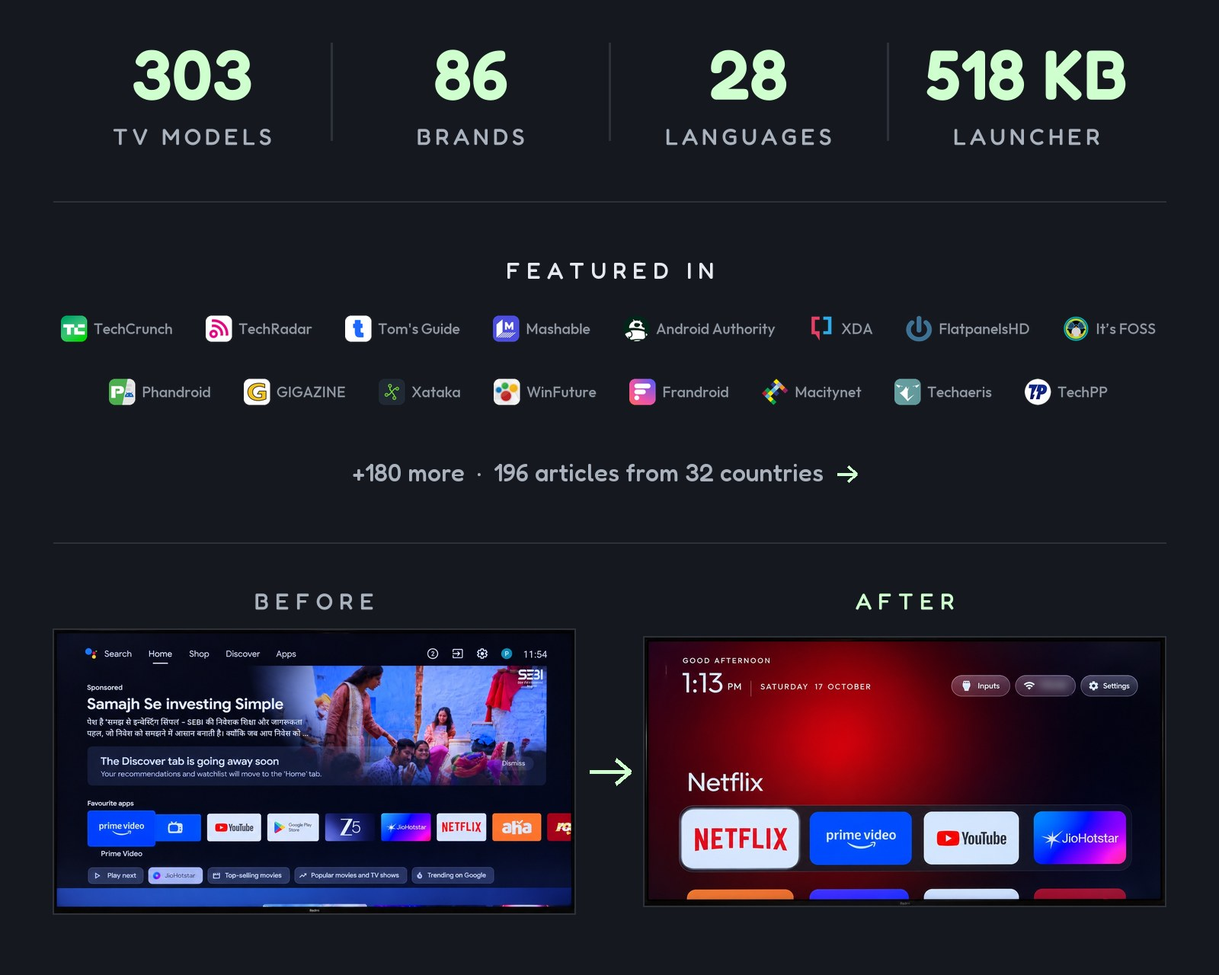
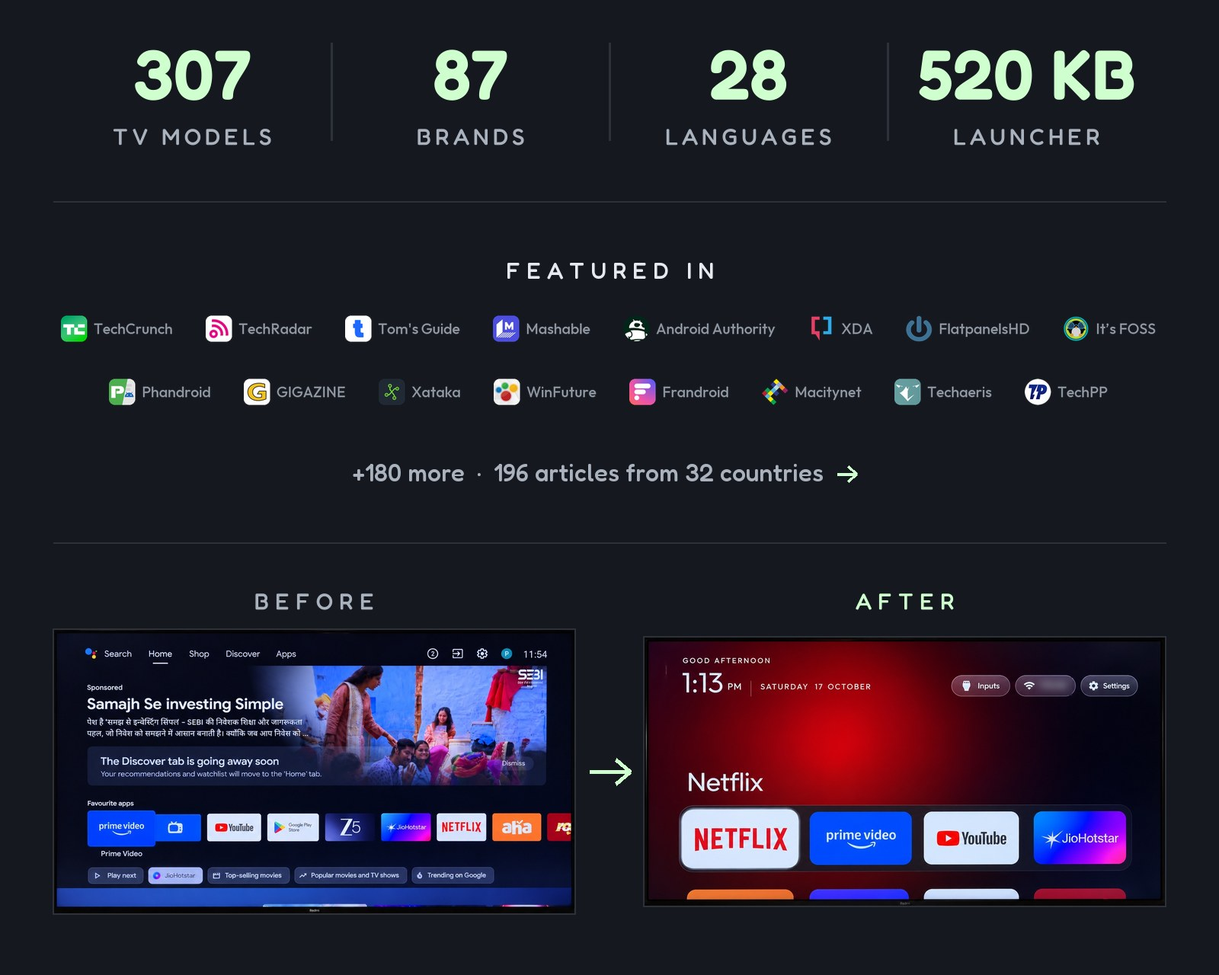
README: tables, counts and card after Round AB (307 TV models, 87 brands, 28 languages, about 520 KB)

Changed region(s): [[0.75, 0.0312, 0.9375, 0.125], [0.125, 0.0625, 0.2188, 0.125], [0.375, 0.0312, 0.4375, 0.0938]]

diff --git a/tests/test_translation_recipe_gate.py b/tests/test_translation_recipe_gate.py
@@ -5,7 +5,7 @@ in `values/strings.xml`, so a full language is by far the largest thing a transl
 adds to `launcher/app/src/main/res/` - and the release APK has a hard budget:
 `.github/workflows/ci.yml`'s `launcher` job, which runs on every pull request in `launcher/`, measures
 `launcher/app/build/outputs/apk/release/app-release.apk` and fails the build at 589,824 B. The launcher
-ships just under that (README.md quotes about 518 KB), and #1271 is a full Korean translation that did
+ships just under that (README.md quotes about 520 KB), and #1271 is a full Korean translation that did
 not fit. Until now the page said nothing about it, so a translator could follow the recipe exactly and
 land a red build at a step the page never mentions.
 

diff --git a/tools/readme_stats.py b/tools/readme_stats.py
@@ -37,7 +37,7 @@ try:
 except ImportError:
     sys.exit("readme_stats.py needs Pillow: tools/venv/bin/pip install -r tools/requirements-perf.txt")
 
-STATS = [("303", "TV MODELS"), ("86", "BRANDS"), ("28", "LANGUAGES"), ("518 KB", "LAUNCHER")]
+STATS = [("307", "TV MODELS"), ("87", "BRANDS"), ("28", "LANGUAGES"), ("520 KB", "LAUNCHER")]
 W, H = 1600, 240
 img = Image.new("RGB", (W, H), "#15181e"); d = ImageDraw.Draw(img)
 def f(size, wt):

diff --git a/examples/README.md b/examples/README.md
@@ -85,8 +85,8 @@ on that firmware, grouped and commented. These are starting points: comment out 
 | `lumio-vision-7/` | Lumio Vision 7 55" (KTC ODM, Realtek, khardi, KTC_LUMIO_4K_EU_23GV1), India | Google TV 14 | First Lumio list: Anoki ACR + Privacy Sandbox ad services, Realtek store-demo/karaoke, Ginga, Google feedback/partner-setup/calendar-sync/ambient screensaver, Play Games, YouTube Music; voice assistant (katniss) off by choice (~100 MB); setupwraith must go with launcherx (active Wi-Fi was system-owned, so Wi-Fi survived; FORCE_SETUPWRAITH=1) and doing so can break Cast; Live TV is com.realtek.tv; remote app buttons YouTube 190 / Netflix 191 / Prime 195 / TL;DR 200; Netflix shipped disabled; reboot-checked |
 | `magcubic-hy300-pro/` | Magcubic HY300 Pro projector (rk3566_rgo, device adt3, Askey) | Android 11 | Calculator, music, file manager, video player, Office, Miracast, HTC store and printing off; same Allwinner/HTC firmware family as the Portronics Beem 470; `com.htc.htcsettings` (projector settings), firmware updaters and factory packages kept; stock HTC launcher left enabled, `set-home-activity` takes Home; HDMI1-3 and CVBS1 list in the Inputs menu; config.json puts SmartTube, YouTube, Nuvio, VLC in the dock |
 | `master-g-mga3200/` | Master-G MGA3200 (SCBC R1, Realtek; Android reports model `ATV R1`), Chile | Android TV 9 | Same SCBC platform as `thomson-t32rtl6000/` and `sanyo-atv-r2/`: Google recommendation rows, telemetry and feedback, SCBC consent agent, S-Channels row, partner auto-installs, E-Show demo, E-Sticker, Vewd store; OTA kept, factory menus left alone; ISDB-T tuner stack, remote/Bluetooth and FastCast must stay; 1.5 GB RAM; 20 packages |
+| `motorola-swtv-24ae-fhd/` | Motorola / Coocaa SWTV-24AE-FHD (24LP6000G, Skyworth OEM, beomil), India/SEA | Google TV 14 | Skyworth OEM board sold as Motorola in India (build UKN4) and Coocaa 24LP6000G in Vietnam/SEA (build UKN6); after-sale/activation trackers, ad services, recommendation rows, demos; Wi-Fi ownership setupwraith gotcha documented; remote Settings button emits keycode 83 (KEYCODE_NOTIFICATION) on scancode 240, needs HomeKeyService; Live TV is `com.cltv.hybrid` (Motorola) or `com.mediatek.wwtv.tvcenter` (Coocaa); reboot-checked |
 | `motorola-mt4310/` | Motorola MT4310 (Newsan; Hisense board, hayward, MediaTek), Argentina | Android TV 11 | Hisense silent auto-installs, store demo and disclaimer, feedback and partner setup, recommendation rows and MediaTek partnercustomizer, printing and calendar; Play Movies, Play Games and TalkBack/TTS off by choice; the factory manager re-enables katniss and tvrecommendations at every boot, so they stay on; 0.9 GB, 720p UI; tvlauncher off for a custom launcher, setupwraith left on (no HOME claim); remote app and Input keys survive the swap; Live TV is `com.mediatek.wwtv.tvcenter` |
-| `motorola-swtv-24ae-fhd/` | Motorola SWTV-24AE-FHD (Skyworth OEM, beomil, MediaTek), India/Global | Google TV 14 | Skyworth after-sale/activation trackers, recommendation rows and partner customizer, TV Guard (dailymanage), Daily Key (myapp), e-manual; Google Play Games and feedback; launcherx + setupwraith off; setupwraith owned Wi-Fi saved at setup; remote Settings button emits keycode 83 (KEYCODE_NOTIFICATION) on scancode 240, needs HomeKeyService; Live TV is `com.cltv.hybrid` |
 | `mtc-uk-2k-android-tv/` | MTC UK 2K Android TV (tabata, MediaTek m5621; JVC-family firmware, `android.autoinstalls.config.JVC` present), UK | Android TV 11 | Google recommendation rows, partner customizer, feedback, ambient mode (katniss + backdrop), retail demo, MStar disclaimer popups, calendar leftovers; UK Freeview suite ships disabled at the factory (re-disabling throws SecurityException, harmless); dumpsys crippled on this firmware ("hung system process"), verify with `pm list packages -d` and screenshots; stock launcher `com.google.android.tvlauncher`, so `restore.sh` needs no launcher argument |
 | `next-start-pro-4k/` | Next Start Pro 4K TV Box (SDT HPR314-Next, Realtek RTD1325), Turkey, streaming box | Google TV 14 | Google feedback, on-device ad personalisation, Google TV home and ambient screensaver, setup wizard (took Home and crash-looped; owned the setup Wi-Fi), factory tests, Next IPTV, Roket and JetTV; Dolby service, Realtek and SDT services kept; **Dolby stutter fix**: Surround on Never plus Realtek's hidden MS12 output set to DD+/Atmos ([README](next-start-pro-4k/README.md)); Projectivy as Home; 2 GB; reboot-checked |
 | `noblex-shinjuku/` | Noblex NoblexTV (Skyworth-built, shinjuku, MediaTek m5621), Argentina | Android TV 11 | Panasonic TH-40HS550K list on the same Skyworth firmware family: Skyworth auto-installs, shop demo and Demo Now, e-manual, MediaTek PQ test tool, Google feedback and smartconnect, recommendation rows and Skyworth's launcher customizer, Assistant, Backdrop; unused apps off by choice; Chromecast kept; 0.9 GB, streaming apps that start on their own at boot are the real RAM cost (appops note); keep `com.mediatek.*` |
@@ -109,6 +109,7 @@ on that firmware, grouped and commented. These are starting points: comment out 
 | `panavox-google-tv/` | PANAVOX Google TV (dongnae) | Google TV 14 | Google TV home replaced (launcherx and setupwraith off), Google telemetry and Privacy Sandbox services, Prime Video, Wi-Fi display sink, calendar and contacts sync, voice (katniss, tv.remote.service), Chromecast, TTS, TalkBack and Google extras off |
 | `peaq-ptv43aqu-5023c/` | PEAQ PTV 43AQU-5023C (Changhong, reports OK. AI PONT, dundas, MediaTek m7332) | Android TV 11 | First PEAQ list, same platform as ok-ai-pont-ikebukuro: Anoki ACR, AI PONT portal, Google recommendations, partner auto-installs, Homwee store/help, Google preloads; Assistant, Ambient, Prime Video and Media Player off by choice; Chromecast and Miracast kept; 1080p, 1.3 GB; setupwraith owns the Wi-Fi network and does not claim HOME, left alone; remote buttons work without tvlauncher; config.json has the dock; reboot-checked |
 | `philips-50pud7406/` | Philips 50PUD7406/43 (TPV, PH0M_EA_T32, MStar/MediaTek), Chile; 55PUS7906/12, Lithuania | Android TV 11 | First list for PH0M_EA_T32 (same board as the 65PUG7406/78 notes), not the org.droidtv xtv platform: DAC/GEL analytics, TPV framework logger and CMS client, app gallery, retail demo, partner customizer, recommendations, ambient mode; Chromecast off because a shared network of ~150 hosts kept pausing and closing YouTube (HOME sent by mediashell); point the screensaver away from the disabled backdrop; Assistant and updates kept; a second unit (EU) adds a boot-to-Live-TV quirk and the MMP player as a TV_INPUT_HARDWARE false positive; a third unit (55PUS7906/12, EU, TPM215E) shows HDMI (PS4) and DVB-T work with the list applied and MMP, eum and nettvregistration kept, and adds six candidate lines |
+| `philips-50puf7099-t3/` | Philips 50PUF7099/T3 (TPV EBONY_V560, Hisilicon), China | Android TV 9 | China-market set, not the org.droidtv platform the other Philips lists cover: BestV/百视通 stock home (`com.bestv.ott`, not in `KNOWN_STOCK_LAUNCHERS`, so pass `STOCK_LAUNCHER=com.bestv.ott`), three package families side by side (`tv.fun.*`, `com.newtv.*`, `com.tpv.*`), no GMS; the casting, camera, video-call and smart-home apps off with the TPV telemetry and ad services and the BestV/NewTV background services, plus the store; the two firmware upgraders are commented out (the tested set had them off, which gives up system OTA, and `tv.fun.tvupgrade` can re-install the BestV home); the preinstalled content apps and the voice assistant kept by choice; the screensaver shipped pointing at a package that is not installed, so there was no DreamService at all; reboot-checked, but one session only and the physical remote untested ([device note](../docs/devices/philips-50puf7099-t3.md)) |
 | `philips-50pus8517/` | Philips 50PUS8517/12 (TP Vision, PH1M_EA_9970A, MediaTek MT5895), Europe | Android TV 11 | First `org.droidtv` TP Vision list: DAC analytics uploader (AWS Firehose), Top Picks, app gallery; Assistant, DLNA, IP control off by choice; disabling `eum` or `aurora` leaves persistent `xtv` retrying forever, and `eum` also kills the sources drawer -- see quirk 5; the same list was also run on a 70PUS8505 and a 65PUS9206 (same board and firmware) |
 | `philips-55oled707/` | Philips 55OLED707/12 (TP Vision, PH1M_EA_9970A, MediaTek MT5895), UK | Android TV 11 | Same board and firmware build as `philips-50pus8517/`, on an OLED panel: DAC analytics, Top Picks, app gallery and its preload installer, Alexa, setupwraith (Ethernet only, Wi-Fi impact unchecked); `nettvbrowser` must stay or ITVX hangs; Play-Fi re-enables itself at every boot, so it is left out; Chromecast and all used streaming apps kept |
 | `philips-55oled708/` | Philips 55OLED708/12 (TPV, PH1M_WW_9972, MediaTek), Poland | Google TV 12 | Google TV generation, not the 707's board: DAC analytics, frameworklogger, Samba TV ACR, NFT Collection, Play-Fi, Control4, Matter, Mimi, Alexa, Chromecast, setupwraith (Wi-Fi re-joined first) and the Philips launcher tab; `demome` holds TV_INPUT_HARDWARE so it stays; the remote's gear and Apps buttons need HomeKeyService (gear by scancode 141); nothing re-enabled after a reboot |
@@ -123,7 +124,7 @@ on that firmware, grouped and commented. These are starting points: comment out 
 | `philips-google-tv-ta7/` | Philips Google TV TA7 (TPV, PH3M_AL_T32, MediaTek), Brazil | Google TV 14 | TP Vision `candeebug`/`gel` analytics, partner attribution and auto-installs, European operator apps, ad-consent and disclaimer popups; Netflix, Prime Video, Google TV app and Chromecast off by choice, Assistant and OTA kept; setupwraith + launcherx off for a custom launcher (setupwraith owned only an unused network); the gear button is KEYCODE_SETTINGS and needs HomeKeyService (`HOME_KEY_SERVICE=1`); theme |
 | `philips-r8g-google-tv/` | Philips R8G Google TV (MOKA, whitefield, Realtek RTD2851F), US | Google TV 14 | Anoki ACR, store-demo overlay, Realtek partner customizer, HbbTV (unused with ATSC), Android ad services; voice and ambient mode off by choice; port 5555 opens without pairing; setupwraith owned the Wi-Fi saved at setup and disabling it deleted the network; the standby light can be switched off over ADB ([note](../docs/devices/philips-r8g.md)) |
 | `philips-smart-4k-google-tv/` | Philips Smart 4K TV (Skyworth, eleonas, MediaTek), India | Google TV 14 | Skyworth recommendations, after-sale/activation trackers, iCast; Chromecast, Assistant off by choice; wireless-debugging pairing, setupwraith |
-| `philips-tpm191e/` | Philips TPM191E / 50PUS8505 / 55OLED854 (TP Vision, PH9M_EA_5599, MediaTek MT5887), Europe | Android TV 12 | `org.droidtv` TP Vision list on Android 12: DAC analytics uploader, usage logging, demo mode, Top Picks, app gallery; voice, Prime Video, DLNA off by choice; Alexa, Chromecast and updates kept; DTS Play-Fi is re-enabled at every boot by the audio service, so it is left on; `eum`, `nettvbrowser`, `menudataapp` and `nettvregistration` kept, as on the 50PUS8517; for the 50PUS8505 and the 55OLED854, only an owner-selected subset and launcher handover were checked in one session, not the full list; the 55OLED854 found its remote's Settings button (scancode 357) and the OLED screensaver logo also seen on a different board ([notes](philips-tpm191e/README.md)) |
+| `philips-tpm191e/` | Philips TPM191E / 50PUS8505 / 55OLED854 / 65OLED804 (TP Vision, PH9M_EA_5599, MediaTek MT5887), Europe | Android TV 12 | `org.droidtv` TP Vision list on Android 12: DAC analytics uploader, usage logging, demo mode, Top Picks, app gallery; voice, Prime Video, DLNA off by choice; Alexa, Chromecast and updates kept; DTS Play-Fi is re-enabled at every boot by the audio service, so it is left on; `eum`, `nettvbrowser`, `menudataapp` and `nettvregistration` kept, as on the 50PUS8517; for the 50PUS8505 and the 55OLED854, only an owner-selected subset and launcher handover were checked in one session, not the full list; the 55OLED854 found its remote's Settings button (scancode 357) and the OLED screensaver logo also seen on a different board; on the 65OLED804 tvrecommendations stayed off through restarts, and a held Home press needs `home_long_press_home` ([notes](philips-tpm191e/README.md)) |
 | `polytron-2k-hayward/` | Polytron 2K (WLTV POLYTRON2K, hayward; Hisense/CVTE board, MediaTek mt5867), Indonesia | Android TV 11 | Hisense silent auto-installs, MediaTek partnercustomizer, Google recommendations, feedback and partner setup, store demo and disclaimer; voice search, Chromecast, YouTube, Netflix and TTS off by choice; 1 GB, 720p UI, decoders up to 1080p; tvlauncher + setupwraith off for a custom launcher; Live TV is com.mediatek.wwtv.tvcenter |
 | `portronics-beem-470/` | Portronics Beem 470 Smart LED Projector (Allwinner H713, 1 GB), India | Android 11 | First Portronics list: HTC stock launcher/OTA/telemetry and app store, Allwinner Live TV/media/theme apps, stock YouTube replaced by SmartTube, AOSP phone/print/cell leftovers; casting/EShare kept; HOME key needs both setup flags, and Settings needs an explicit component because the firmware answers no ACTION_SETTINGS |
 | `prismplus-q65-ultra-r10g/` | PRISM+ Q65 Ultra 2026 QLED 4K AI Google TV (R10G, PRISMPLUS_FFM, MOKA, Realtek RTD2875 SoC, RTD6748 platform) | Google TV 14 | Realtek partner customizer, Google partner setup and auto-installs, ambient mode, unused DTMB/ISDB/ATSC tuners, karaoke, preloaded apps; Max off by choice; keep com.realtek.dtv and com.realtek.tv.atv for inputs |
@@ -137,6 +138,7 @@ on that firmware, grouped and commented. These are starting points: comment out 
 | `sankey-smart-tv-hi3751v350/` | Sankey SMART_TV (CVTE, HiSilicon Hi3751V350, 1 GB) | Android 12 | CVTE ad and push services (`gaia.ad`, `wonder.cloud`, `industries`), the ad screensaver, the "cleaner", the stock weather and Google feedback; Miracast off by choice; the CVTE store kept by default (it hosts the stock launcher's Apps grid; the tested set turned it off because it kept pushing a CVTE-signed "WebTube" as a YouTube update); no Developer options and no App info page, ADB from the CVTE factory menu (MENU 1147); stock launcher kept (no FallbackHome, `COMMON_HOME`, #1201); Inputs pill opens `com.cvte.tv.globalui/.InputSourceActivity` |
 | `sanyo-atv-r2/` | SANYO ATV R2 (SCBC, Realtek RTD285O) | Android TV 9 | S-Channels, E-SHOW demo, Vewd, TV Booster, SANYO OTA |
 | `sber-salute-tv-at30a6/` | Sber Salute TV 43" (CVTE TP.T962D4.PC756, Amlogic T962D4, at30a6, 2 GB), Russia | StarOS 1.101 / Android 13 | First StarOS list: Sber content apps, SberPrime, kids room, smart home, Salute browser and screensaver, app catalogue, surveys, beta, bug reporter, cleaner, Huawei Cast/MHshare/DLNA receivers; OTA kept by default; Sber's platform service reinstalls removed apps (disable only) and cannot itself be disabled (its core re-enables it, component disables are refused), so the Salute voice assistant stays; Developer options locked and Sber Studio's ADB switch did not open 5555, see README; app "rotation" limit lowered with `sys_storage_threshold_percentage`; Inputs work through `ru.sberdevices.tvinputs`; reboot-checked |
+| `seleco-tv39020hda9smart/` | Seleco TV39020HDA9SMART 39" (AT_SmartScreen, Toptech + Zeasn, Realtek RTK2842P), Italy | Android TV 9 | Same Toptech/Zeasn platform as [caxium-58-realtek-rtk2851p](caxium-58-realtek-rtk2851p/): Zeasn device portal, services feed and store, partner auto-installs, retail demo, print spooler, camera, live wallpapers, Chrome, USB media player; phone Netflix, voice search and Miracast off by choice; shipped with the phone build of Prime Video instead of the TV app, replaced by hand; stock Zeasn Home disabled last; Live TV and inputs stay with `com.toptech.tvmenu`, whose `.input.InputActivity` the Inputs pill opens; the remote's Input key still goes to the Zeasn Home; config.json has the dock; reboot-checked |
 | `sharp-2t-c32gh3000i/` | SHARP 2T-C32GH3000I (SHARP 2K Smart TV-A; Skyworth-built, beomil, MediaTek mt5867), Indonesia | Google TV 14 | Same platform as the Motorola SWTV-24AE-FHD: Skyworth after-sale/activation trackers, recommendation rows and partner customizer, TV Guard, Daily Key, e-manual, iCast; Android ad services; dreamx, Chromecast, Prime Video, YouTube Music off by choice; wireless-debugging pairing only; setupwraith owned the Wi-Fi saved at setup; remote gear sends keycode 83; Live TV is `com.cltv.hybrid`; 1 GB |
 | `sharp-aquos-tve21f/` | SHARP AQUOS TVE21F (AQUOS-TVE21F, banqiao, CVTE/MediaTek), UK | Android TV 14 | Anoki ACR, retail demo, factory/test apps, PAI auto-installs; Google recommendations and setup wizard (Wi-Fi owned by system); Assistant, Chromecast and phone remote off by choice; unused streaming off by choice; 1.8 GB; YouTube button stays with the vendor `com.cvte.hotkey.dispatcher` |
 | `sharp-aquos-tve23a/` | SHARP AQUOS TVE23A (AQUOS-TVE23A, sandiego, CVTE/MediaTek mt5889), Denmark | Google TV 14 | Google TV sibling of the TVE21F: Anoki ACR, retail demo, e-manual, factory/test apps, partner rows; Android ad services; Prime Video, YouTube, YouTube Music, Play Games, Chromecast and Google TTS off by choice; setupwraith owned the Wi-Fi saved at setup; remote gear is KEYCODE_STAR (17), YouTube is KEYCODE_TV_INPUT_COMPOSITE_1, Netflix stays with the firmware; 2.7 GB |
@@ -191,6 +193,7 @@ on that firmware, grouped and commented. These are starting points: comment out 
 | `stellamore-t950s/` | Stellamore T950S projector (Droidlogic be30a3, Amlogic txhd2) | Android 13 | Zeasn App Store and stock launcher both bundle Google Ads (doubleclick); Zeasn device portal/OTA, Stellamore factory/test/guide; 1 GB; keystone correction must stay enabled |
 | `super-general-cvte-t972/` | Super General 55" 4K (CVTE TP.SK708D.PC821, Amlogic T972, x30a4, 1 GB), Saudi Arabia | Android 9 | Not Google TV; `com.sdk.hades` adware in two silently installed packages, CVTE ad services and ad screensaver, Stark store, cleaner, weather, firmware updater; Play Services ships disabled (`pm enable` it); ADB from the factory menu (MENU 1147 on a source); app buttons come from CVTE's hotkey service, Source is left to the app in front (open `com.cvte.tv.globalui/.InputSourceActivity`), a key-filtering accessibility service breaks Volume hold; NFX repointed with a same-package stand-in; third-party launcher; reboot-checked; [notes](super-general-cvte-t972/README.md) |
 | `tcl-mt9655-cn-android14/` | TCL / FFalcon China (tcl9655_cn, MediaTek MT9655 "merak", UTT2.250416.001 AU01) | Android 14 | No Google services; no Developer options at all — the ADB toggle opens adbd in TLS mode on a random port with no pairing service, so the only way in is a dual male USB-A cable (PC USB 3.0 → TV USB 2.0) and then `adb tcpip 5555`; every adb install is refused (`Install not allowed` from system_server), only a USB stick through 电视卫士 installs apps; debloat only, stock launcher cannot be replaced (`launcherStrategy` allowlist empty, verifier demands the cyberui signature); reboot-checked; [why the debloat works and the installs do not](../docs/devices/tcl-mt9655-cn-android14.md) |
+| `tcl-32es570f/` | TCL 32ES570F (C06, C06_2K_GB, MStar mt5867, 939 MB), Italy | Android TV 11 | Older V8-T221T01-LF1V121 firmware than `tcl-32s5k/`; TCL Home, Quick Panel and T-Solo disabled with the remote still working; ttvs re-enables Rakuten, Alexa and usercenter at every boot; TGuard disables but keeps running; no standby-LED setting |
 | `tcl-32l5a/` | TCL 32L5A (C06, model "Smart TV", 1 GB) | Android TV 11 | Same C06 platform as `tcl-32s5400a/` (SDK 30, build AR2101); TCL account, TGuard cleaner, promo rows, TCL Channel waterfall, store demo sticker, browser, feedback and Google TV recommendations; custom Apple TV style launcher installed as default home (`com.gathin.tvhome`), stock launcher `com.google.android.tvlauncher` disabled; Live TV `com.tcl.tv` and inputs `com.tcl.tvinput` kept; reboot-checked |
 | `tcl-32s5400a/` | TCL 32S5400A (C06, C06_2K_GB, MediaTek MT9221, 1 GB), 2023 | Android TV 11 | Same C06 platform as `tcl-40s5400a/`, but older AR2101 / V8-T221T05-LF1V005 firmware and SonyLIV/YuppTV preloads; TCL account/TGuard/promos, Google extras, regional preloads; firmware updater kept (ttvs is the updater); stock launcher priority 2, keep the remote/BT/TCL settings packages; a second unit on V8-T221T01-LF1V121 needs 500 MB free before any install (`pm trim-caches`) |
 | `tcl-32s5k/` | TCL 32S5K (C06, C06_2K_GB, MediaTek MT9221, 918 MB), EU | Android TV 11 | Same build family as the 40S5400A; TCL account/TGuard/promo rows, USB players, voice and photo screensaver off by choice; `com.tcl.usercenter` is re-enabled by ttvs at every boot; setupwraith safe here (Settings owns the Wi-Fi); remote standby is a full power-down |
@@ -220,6 +223,7 @@ on that firmware, grouped and commented. These are starting points: comment out 
 | `tcl-55p7k/` | TCL 55P7K, Middle East (G10, G10_4K_GB, Realtek RTD2875P) | Google TV 12 | Same G10 build as `tcl-g10-google-tv/` but logkit, Samba TV ACR and ttvs ship enabled; TCL Channel, push messages, TGuard, T-Solo, Alexa, hotel/demo; OSN+, Disney+ MEA, iQIYI off by choice; setupwraith before launcherx; Settings key is KEYCODE_NOTIFICATION, Web key 4159; TCL Audio Only turns the panel off with sound playing |
 | `tcl-55p8ls/` | TCL 55P8LS QD-Mini LED, Vietnam (G10, G10_4K_GB_32BIT, Realtek rtd6748) | Google TV 12 | Same G10 build as `tcl-g10-google-tv/`; Samba TV ACR, logkit, ttvs, TCL Channel/push/partner home rows, hotel/demo, TGuard, Alexa, T-Solo, MagiConnect, Miracast; Prime Video, YouTube Music, Play Movies/Games off by choice; saved Wi-Fi belonged to setupwraith (re-join first); Play Store auto-installs VTV Go, HBO Max, iQIYI at sign-in; launcher key services need APP_AUTO_START; reboot-checked |
 | `tcl-q10g-pro/` | TCL 55Q10G Pro (China, tcl_mt5879_cn, MediaTek MT9952) | Android TV 11 | No Google services, TCL boot ad + analytics/BI, OTA and account services; ADB opens from Device info + UP/DOWN/LEFT/RIGHT, not the build number; debloat only, stock launcher cannot be replaced (signature check at install time) |
+| `tcl-55q6cx1/` | TCL 55Q6CX1 (Smart TV Pro, G08, G08_4K_GB, MediaTek) | Google TV 12 | European G08 build (STT2.221228.001 AS35): TCL promos, push messages, onboarding overlays, telemetry/logkit, Google Play Movies, TTS, dreamx screensaver; launcherx and setupwraith safely disabled (Wi-Fi owned by system, not setupwraith) and replaced with CleanYourTV; Game Bar, T-Exhibit, AirPlay, Chromecast, Miracast and DVB tuner kept; suspension/interactive/ttvs kept (they host the Source QuickPanel and live TV overlays); key helpers left unbound to preserve volume ramp; duplicate WebViews commented (check the active provider first); reboot-checked |
 | `tcl-55s470g/` | TCL 55S470G (G10, G10_4K_US_NF, Realtek), US | Google TV 12 | Same build as the G10 list, but Samba TV, logkit and ttvs ship enabled; ttvs kept (it hosts the firmware updater) and re-enables Samba's front end at boot, so opt out in Settings > Privacy too; Assistant voice and Chromecast off by choice; setupwraith off (Wi-Fi belonged to android.uid.system); remote gear button (keycode 83) opens the quick settings panel and the app buttons are remapped (Pluto TV opens Tubi); `APP_AUTO_START` must be allowed for the launcher or TclAppBoot stops the key service at boot; reboot-checked |
 | `tcl-55s546-us/` | TCL 55S546 (5-Series, G03_4K_US, BeyondTV4, GTV93), US | Google TV 11 | Same G03 platform as tcl-g03-google-tv on the US GTV93 build: TCL telemetry, promos and preloads off; TCL+ and TCL Channel kept; launcherx off with remote app buttons and volume repeat still working, no key helper needed; reboot-checked |
 | `tcl-58s571f-fire-tv/` | TCL 58S571F (TCL Fire TV, AFTDEC012E, ginza, MediaTek mt5896), US | Fire OS 8 / Android 11 | The S5 sibling of `tcl-43s450f-ca/` (same AFTDEC012E platform as `amazon-fire-tv-aftdec012e/`): Amazon ACR, ad/recommendation feeders, advertising ID, Shopping, demo, tutorials, telemetry, KSO service; Alexa extras, preloads and TCL apps (OpApp, Luna, Kids, News, Gallery, System Status, Prime Video) off by choice; Alexa voice returns at every boot as on the Hisense; the stock launcher also owns Settings; Appstore kept for the remote's branded buttons; AirPlay, Miracast, Live TV, Silk kept; debloat only |
@@ -248,7 +252,7 @@ on that firmware, grouped and commented. These are starting points: comment out 
 | `tcl-q7c-google-tv/` | TCL Q7C (Smart TV Pro, G08, G08_4K_GB, MediaTek tcl9618), European firmware | Google TV 14 | Same build as the 85RM7L list (AU02), with the launcher: TCL promos, home pushes, Channel+/waterfall, account, TGuard cleaner, log capture, Android 14 ad and privacy services, manual/repair/hearing/solo apps, soundbar updater, Alexa; Assistant, AirPlay, Miracast/T-Cast, Netflix, Prime Video, Google TV and Play Games off by choice; ttvs, Chromecast, game bar and dreamx kept; launcherx and setupwraith off (Ethernet, FORCE_SETUPWRAITH=1); every remote button is scancode 240, keycodes in the README (Settings 83, YouTube 190); the debugging switch did not close port 5555, check adb_enabled; reboot-checked; a second unit, a 65Q7D Pro on Wi-Fi in Greece, is in its README (Wireless debugging only, setupwraith owned the Wi-Fi in use, the key helpers cost volume repeat); a fourth unit, a 65T8C on Wi-Fi, also in its README (Wireless debugging only, AirPlay and Prime Video kept, TCL keyboard off after Gboard); a fifth unit, an EU/UK set OTA'd from Android 12, in its README (OTA re-enabled nothing and installed channelplus; Source-key QuickPanel via suspension; keyboard and browser kept) |
 | `tcl-qm6k-google-tv/` | TCL QM6K Pro, 2025 (G08, MediaTek tcl9618) | Google TV 14 | Samba TV ACR (ttvs), TCL TV+, TCL Live, store/hotel demo; setupwraith must go for a custom launcher (also AU14, #23); a QM7 (2024) owner ran this list with seven extra packages — [deltas and a hung Cast receiver](../docs/devices/tcl-75qm751g-qm7.md) |
 | `tcl-g07-google-tv/` | TCL Smart TV (G07, G07_4K_GB_NF, Realtek RTD2851A, 2 GB) | Google TV 11 | TCL BI analytics (ttvs, also the firmware updater), TGuard, waterfall, TCL Live, TCL Home dashboard, messages, hotel/demo, partner auto-installs; voice, Miracast, MagiConnect, T-Solo, firmware updates and unused preloads off by choice, Chromecast kept; launcherx, setupwraith and dreamx off (Wi-Fi belonged to android.uid.system), reboot-checked; Input key works without InputKeyService, gear is scancode 561 (`settings_key_scancodes`), Netflix and YouTube buttons need an accessibility helper |
-| `tcl-g03-google-tv/` | TCL Smart TV Pro (G03, G03_4K_GB, BeyondTV4, Realtek R51MT05, V8-R51MT05-LF1V620), Middle East firmware | Google TV 11 | Same platform as tcl-43c645: TCL BI analytics and logkit, promo rows (TCL Channel, BrowseHere), dashboard, messages, partner auto-installs; streaming apps, voice, Chromecast, Miracast/T-Cast, USB player, game bar, TCL Live off by choice, firmware updates kept; launcherx, setupwraith and dreamx off (setupwraith owned the Wi-Fi: forget and re-join first), reboot-checked; Input key works without InputKeyService, gear is keycode 4077 (`settings_key_keycodes`), config.json sets Live TV to com.tcl.tv; a second unit on the same build ships a Bluetooth TCL_RC902V_M1 remote whose Netflix/YouTube/Prime buttons die with launcherx and come back from `app_keys` (in config.json, verified with the real remote) |
+| `tcl-g03-google-tv/` | TCL Smart TV Pro (G03, G03_4K_GB / G03_4K_US, BeyondTV4, Realtek R51MT05, V8-R51MT05-LF1V620 / LF1V813), Middle East and US firmware | Google TV 11 | Same platform as tcl-43c645: TCL BI analytics and logkit, promo rows (TCL Channel, BrowseHere), dashboard, messages, partner auto-installs; streaming apps, voice, Chromecast, Miracast/T-Cast, USB player, game bar, TCL Live off by choice, firmware updates kept; launcherx, setupwraith and dreamx off (setupwraith owned the Wi-Fi: forget and re-join first), reboot-checked; Input key works without InputKeyService, gear is keycode 4077 (`settings_key_keycodes`), config.json sets Live TV to com.tcl.tv; a second unit on the same build ships a Bluetooth TCL_RC902V_M1 remote whose Netflix/YouTube/Prime buttons die with launcherx and come back from `app_keys` (in config.json, verified with the real remote); a US unit (GTV93) shows dreamx also hosts the Google Home panel and TCL's updater needs StartandroidService for its device number, so it stays on |
 | `tcl-g05-google-tv/` | TCL Smart TV Pro (G05, G05_4K_US, MediaTek MT5889); also TCL 55Q750G | Google TV 11 | TCL Channel, waterfall, ttvs BI (also the firmware updater on AR71), TGuard; Quick Panel off by choice (the 55Q750G keeps it for the Input key); usercenter and smartalexa come back at every boot; setupwraith returned after a reboot on AR68, launcher half unverified there, but on a 55Q750G (AR71) build-and-install.sh worked and Home held after a reboot, once the setup Wi-Fi was forgotten and re-joined; remote buttons work without the key services (the G05_4K_GB units kept it off too, see the [55C728 note](../docs/devices/tcl-55c728-g05-4k-gb.md)) |
 | `tcl-g08-au-android12/` | TCL Smart TV Pro (G08, G08_4K_GB, MediaTek), Australian firmware | Google TV 12 | Same fingerprint as the EU G08 list (STT2.221228.001 AS34) plus the Australian preloads: Stan, AirPlay (kept), TCL Channel, TCL Live free channels (channelplus), e-sticker, hotel portal, TCL Guard; no Google Cast or voice assistant. Launcher with HomeKeyService: Settings, TV (HDMI 1), YouTube→SmartTube and Netflix→Plex buttons mapped, at the cost of volume repeat (measured on this G08 too). No aerial, so with channelplus off there is no Live TV: the tuner only holds TCL Live IP channels and falls back to HDMI 1 |
 | `tcl-g08-eu-android12/` | TCL Smart TV Pro (G08, G08_4K_GB, MediaTek), Europe/UK firmware | Android TV 12 | Older EU G08 build (STT2.221228.001 AS34): the US list applies only partially — no Samba-ACR ttvs payload, no AirplayAPK, no hotelmenu/TV+/e-sticker preloads, no Android 14 ad services. TCL pushes/demo/help, duplicate webviews, Mediatek casting leftovers, Play Movies, TTS, dreamx, printspooler; suspension/interactive/ttvs listed as DO-NOT-DISABLE (they host the Source-key QuickPanel and the TIAS source overlay — disabling kills the remote Source key, verified fix on a live set); stock launcher kept; debloat only. A second unit, a 75Q7C on AS36 with five more TCL preloads (commented), runs the launcher as Home: remote keycodes and the volume-repeat trade in the README |
@@ -298,7 +302,7 @@ on that firmware, grouped and commented. These are starting points: comment out 
 | `xiaomi-mitv-moor2/` | Xiaomi MiTV-MOOR2 / MOOR4 (venom, MediaTek) | Google TV 11 | Mi ad row and PatchWall, Mi analytics, MiLink, store demo; setup wizard off so a third-party launcher can own Home; MOOR4 on the same firmware: setupwraith owned the setup Wi-Fi (forget and re-join first), Continue watching is not in the local TV provider |
 | `xiaomi-mitv-mosr4/` | Xiaomi MiTV-MOSR4 (irobot, MediaTek) | Google TV 11 | Mi ad rows and PatchWall, Mi analytics, TV Manager, Miracast sink, OTA off by choice; setup wizard off so a third-party launcher can own Home; `overseaservice` hosts the Netflix key and must stay; second unit: setupwraith before launcherx, remote buttons need both key services and `config.json`, and those services cost the volume's live repeat; [notes](../docs/devices/xiaomi-mitv-mosr4.md) |
 | `xiaomi-mitv-mssp0/` | Xiaomi MiTV-MSSP0 / Xiaomi Mi TV 4A 32 (amelie), firmware PI.5926 | Android TV 9 | Xiaomi telemetry and promo helpers, Google recommendation feeds; Assistant, Gallery and media browser off by owner choice; Clock replaces Backdrop; TV inputs, Gboard, Bluetooth and firmware update settings kept; 11 packages, applied October 19 and checked again October 21 |
-| `xiaomi-mitv-mssp1/` | Xiaomi MiTV-MSSP1 (nino), firmware PI.5925 | Android TV 9 | Eight Xiaomi telemetry/content and Google recommendation packages; replacement Home reboot-checked; updater, Assistant, Chromecast, USB media and TV input services kept enabled |
+| `xiaomi-mitv-mssp1/` | Xiaomi MiTV-MSSP1 (nino), firmware PI.5925 | Android TV 9 | Eight Xiaomi telemetry/content and Google recommendation packages, plus verified extras (report senders, partner auto-installer, both heavy screensavers with a reassign-first warning, TV Manager, restorable Google preinstalls, Xiaomi media/accessibility leftovers); replacement Home reboot-checked; updater, Assistant, Chromecast, USB media and TV input services kept enabled |
 | `xiaomi-mitv-mssp2/` | Xiaomi MiTV-MSSP2 (volver, MediaTek), firmware PI.4621, low-RAM | Android TV 9 | PatchWall, Mi analytics, TV Manager, partner auto-installs, Google feedback/bug reports, old leanback home still installed; hotkeys, phone remote, Media Player, updater and Chromecast kept; empty Live TV/HDMI screenshots |
 | `xiaomi-mitv-mssp3/` | Xiaomi MiTV-MSSP3 (machuca, MediaTek) | Android TV 11 | PatchWall, Mi analytics, Netflix observer; Chromecast, screensavers, unused streaming apps off by choice |
 | `xiaomi-mitv-mssp3-android9/` | Xiaomi MiTV-MSSP3 (machuca, MediaTek), Android 9 firmware PI.7524 | Android TV 9 | Same model before its Android 11 update: PatchWall, Mi analytics, TV Manager, OTA; voice assistant re-enables itself at every boot (updated system app rescan); screensaver, preloaded apps off; 1.8 GB, swap full before; notes for the older PI.4663 build (two packages absent, old leanback home to disable) |

diff --git a/docs/workflows/translation.md b/docs/workflows/translation.md
@@ -28,7 +28,7 @@
 7. Check the size gate before you push. A language's strings ship in the release APK, and that APK has to
    stay under 589,824 B (576 KB): `launcher/app/build/outputs/apk/release/app-release.apk`, measured with
    `stat -c %s` on Linux or `stat -f %z` on macOS, and checked by the "Launcher build and unit tests" job
-   on every pull request. `README.md` quotes the launcher at about 518 KB, so a full language can be the
+   on every pull request. `README.md` quotes the launcher at about 520 KB, so a full language can be the
    difference between green and a failed build. A language that does not fit is a maintainer decision, not
    something to land by dropping strings ([#1271](https://github.com/Gathin23/cleanyourtv/issues/1271)).
 8. Build the launcher, set the TV's language (Android 13+: `tools/tv.py 'cmd locale set-app-locales com.gathin.tvhome --locales <tag>'`)
